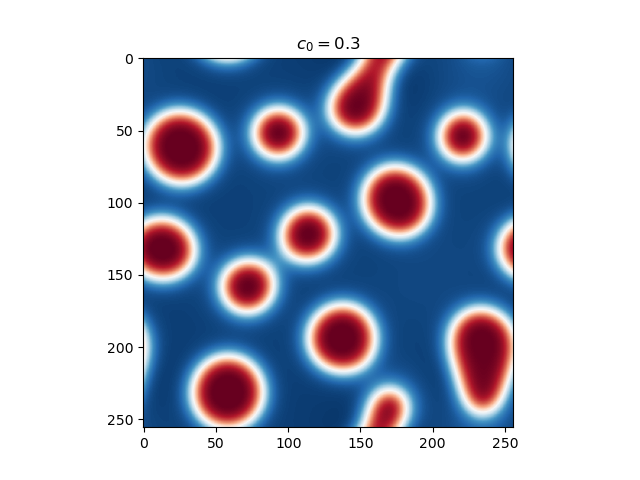
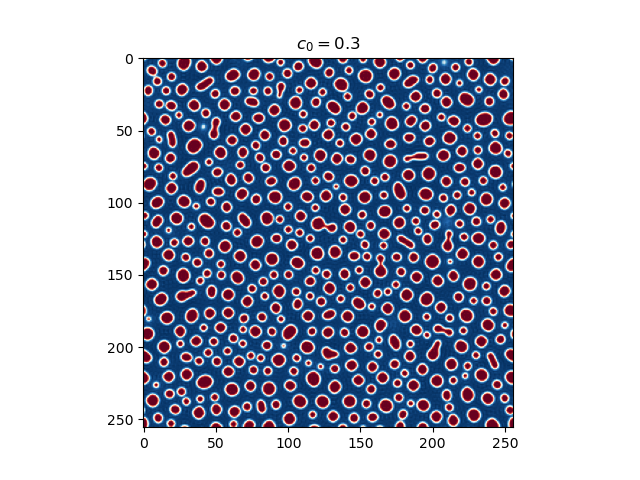
Making the GIFs more beautiful

diff --git a/cahnhilliard.py b/cahnhilliard.py
@@ -19,8 +19,8 @@ from scipy.fft import fft2, ifft2
  an implicit pseudospectral algorithm
 """
 
-Nsteps = 2000
-dt = 0.01
+Nsteps = 1000
+dt = 0.1
 
 N = 256
 c_hat = np.empty((N,N), dtype=np.complex64)
@@ -28,11 +28,11 @@ dfdc_hat = np.empty((N,N), dtype=np.complex64)
 
 c = np.empty((Nsteps,N,N), dtype=np.float32)
 
-dx = 0.1
+dx = 1.0
 L = N*dx
 
 noise = 0.1
-c0 = 0.5
+c0 = 0.7
 
 rng = np.random.default_rng(12345) # the seed of random numbers generator
 
@@ -95,15 +95,21 @@ plt.show()
 from matplotlib import animation
 from matplotlib.animation import PillowWriter
 
-def animate(i):
-    ax.clear()
-    ax.imshow(c[10*i],cmap='RdBu_r', vmin=0.0, vmax=1.0)
-    ax.text(200,20,'t={:.2f}'.format(10*i*dt))
-#     fig.colorbar(im,label=r'$\phi$')
-    return fig,
-    
+# generate the GIF animation
+
 fig, ax = plt.subplots(1,1,figsize=(4,4))
-# fig.colorbar(label=r'$\phi$')
-ani = animation.FuncAnimation(fig, animate, frames= 99,
-                               interval = 100)
+im = ax.imshow(c[0],cmap='RdBu_r', vmin=0.0, vmax=1.0)
+cb = fig.colorbar(im,ax=ax, label=r'$c(x,y)$', shrink=0.8)
+tx = ax.text(190,20,'t={:.1f}'.format(0.0),
+         bbox=dict(boxstyle="round",ec='white',fc='white'))
+ax.set_title(r'$c_0=%.1f$'% c0)
+
+def animate(i):
+    im.set_data(c[5*i])
+    im.set_clim(0.0, 1.0)
+    tx.set_text('t={:.1f}'.format(5*i*dt))
+    return fig,
+
+ani = animation.FuncAnimation(fig, animate, frames= 199,
+                               interval = 50)
 ani.save('ch-c0='+str(c0)+'.gif',writer='pillow',fps=24,dpi=100)

diff --git a/README.md b/README.md
@@ -13,7 +13,9 @@ where <img src="https://render.githubusercontent.com/render/math?math=\kappa"> i
 
 <img src="https://render.githubusercontent.com/render/math?math=f(c) = W c^2(1-c)^2">
 
-where W is the height ot the thermodynamic barrier. 
+where W is the height ot the thermodynamic barrier. The next Figure presents this bulk free-energy.
+
+![Bulk](https://github.com/elvissoares/PyCahnHilliard/blob/master/ch-bulk-free-energy.png)
 
 ## Pseudo-spectral method
 
